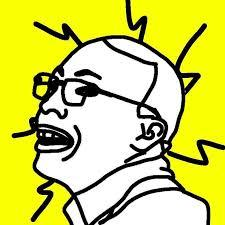
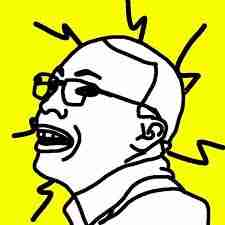
reduced thumbnail sizes

Changed region(s): [[0.0311, 0.0, 0.9956, 1.0], [0.3733, 0.4356, 0.4044, 0.4667]]

diff --git a/mineGithubRepos.py b/mineGithubRepos.py
@@ -43,8 +43,8 @@ for repo in repos:
 
         repo["thumbnail"] = f"{dirpath}/{repo['name']}/thumbnail.jpg"
         image = Image.open(f"{dirpath}{repo['name']}/{imgs[0]['name']}").convert("RGB")
-        image.thumbnail((240, 240), Image.ANTIALIAS)
-        image.save(f"{dirpath}{repo['name']}/thumbnail.jpg", "JPEG")
+        image.thumbnail((480, 480), Image.ANTIALIAS)
+        image.save(f"{dirpath}{repo['name']}/thumbnail.jpg", "JPEG", quality=20)
 
 
 open("projects_json.txt", "w").write(json.dumps(repos))
